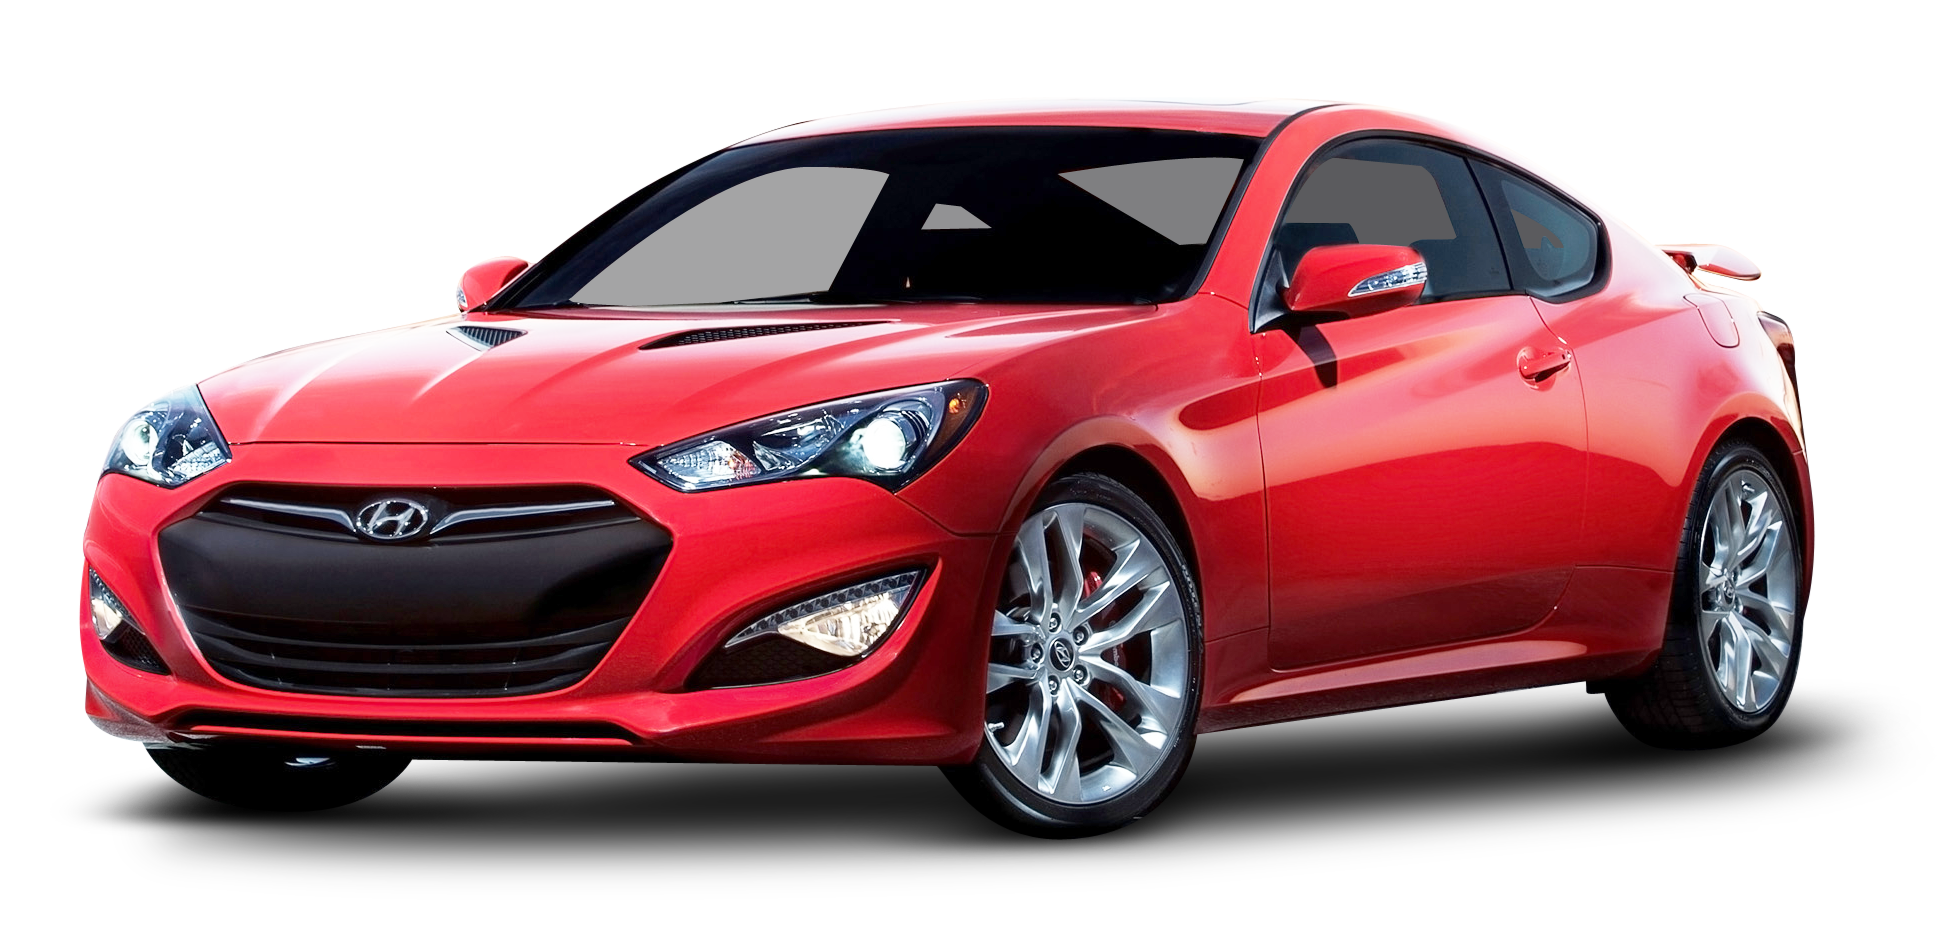
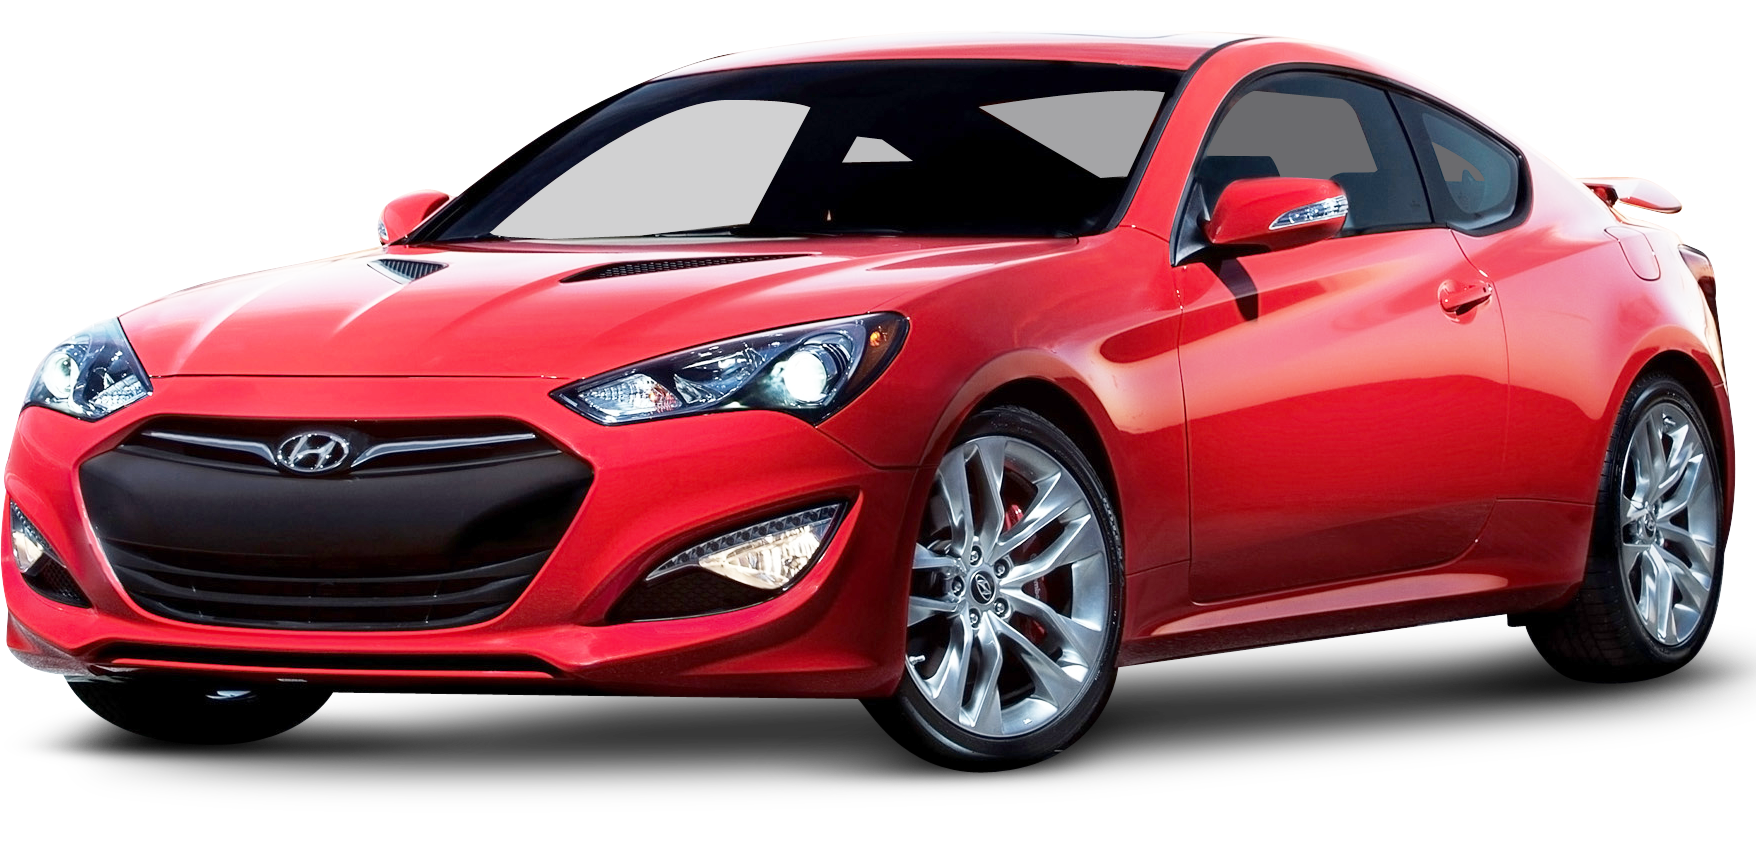
hader done, making it scale

diff --git a/src/container/header/Header.css b/src/container/header/Header.css
@@ -11,26 +11,102 @@
   z-index: 1;
 }
 .app__header_content {
-  height: 100vh;
-  width: 100vw;
-  position: relative;
+  height: 80vh;
+  width: 100%;
+
   display: flex;
   flex-direction: row;
-  align-items: center;
-  justify-content: space-around;
+  flex-wrap: nowrap;
+  justify-content: center;
   font-family: "Poppins";
+  margin-top: 10rem;
 }
 .app__header_content_text {
   display: flex;
   flex-direction: column;
-  width: 400px;
+  /* flex-wrap: nowrap; */
+
+  margin: 7rem 3rem 0 0;
+  /* min-width: 500px; */
+  /* position: relative;
+  left: 10%; */
+
+  z-index: 3;
+}
+.app__header_content_text h5 {
+  font-size: 25px;
+  margin-bottom: 1rem;
+}
+.app__header_content_text h1 {
+  margin: 1px 0;
+  font-size: 50px;
+  line-height: 55px;
+  flex-wrap: nowrap;
+}
+.app__header_content_text span {
+  color: rgb(221, 3, 3);
+}
+.app__header_content_text h6 {
+  margin-top: 30px;
+  font-family: "Times New Roman", Times, serif;
+  font-size: 18px;
+  font-weight: 100;
+  color: rgb(70, 70, 70);
 }
 .app__header_content_image {
-  display: flex;
-  margin-top: 5rem;
+  width: 40%;
 }
-.app__header_content_image img {
-  display: flex;
-  height: 400px;
-  margin-top: 5rem;
+.header_img {
+  margin: 18rem 10rem 0 0;
+  max-width: 50%;
+  max-height: 50%;
+  object-fit: contain;
+}
+
+.button-book {
+  font-family: "Rubik", sans-serif;
+  font-weight: 600;
+  padding: 17px 35px;
+  border: 2px solid rgb(221, 3, 3);
+  background-color: rgb(221, 3, 3);
+  border-radius: 5px;
+  color: black;
+  text-decoration: none;
+  margin-right: 2rem;
+  transition: 0.2s ease-in-out;
+}
+.button-book:hover {
+  box-shadow: 0px 1px 5px 2px black;
+}
+.button-learn {
+  font-family: "Rubik", sans-serif;
+  font-weight: 600;
+  padding: 17px 35px;
+  border: 2px solid black;
+  background-color: rgb(0, 0, 0);
+  border-radius: 5px;
+  color: rgb(255, 255, 255);
+  text-decoration: none;
+  transition: 0.2s ease-in-out;
+}
+.button-learn:hover {
+  border: 2px solid rgb(3, 3, 3);
+  background-color: white;
+  border-radius: 5px;
+  color: rgb(0, 0, 0);
+}
+.app__header_content_text_buttons a:visited {
+  text-decoration: none;
+}
+@media screen and (max-width: 1500px) {
+  .header_img {
+    margin: 18rem 5rem 0 0;
+  }
+}
+@media screen and (max-width: 1200px) {
+  .header_img {
+    margin: 18rem 1rem 0 0;
+  }
+}
+@media screen and (max-width: 900px) {
 }

diff --git a/src/container/header/Header.jsx b/src/container/header/Header.jsx
@@ -13,15 +13,23 @@ const Header = () => {
           <h5>For your next trip</h5>
           <h1>
             Don´t choose a car <br />
-            Choose the car
+            Choose <span>the</span> car
           </h1>
-          <span>
-            Rent the car of your dreams. Unbeatable prices, flexible pick-up
-            options and much more.
-          </span>
+          <h6>
+            {/* Rent the car of your dreams.*/} Unbeatable prices, flexible
+            pick-up options and much more.
+          </h6>
+          <div className="app__header_content_text_buttons">
+            <a href="#awdd" className="button-book">
+              Book Now
+            </a>
+            <a className="button-learn" href="#awdd">
+              Learn More
+            </a>
+          </div>
         </div>
         <div className="app__header_content_image">
-          <img src={car} alt="red car" />
+          <img className="header_img" src={car} alt="red car" />
         </div>
       </div>
     </div>

diff --git a/src/App.css b/src/App.css
@@ -1,1 +1,2 @@
 @import url("https://fonts.googleapis.com/css2?family=Poppins:ital,wght@0,100;0,200;0,300;0,400;0,500;0,600;0,700;0,800;0,900;1,100;1,200;1,300;1,400;1,500;1,600;1,700;1,800;1,900&display=swap");
+@import url("https://fonts.googleapis.com/css2?family=Rubik:ital,wght@0,300..900;1,300..900&display=swap");
